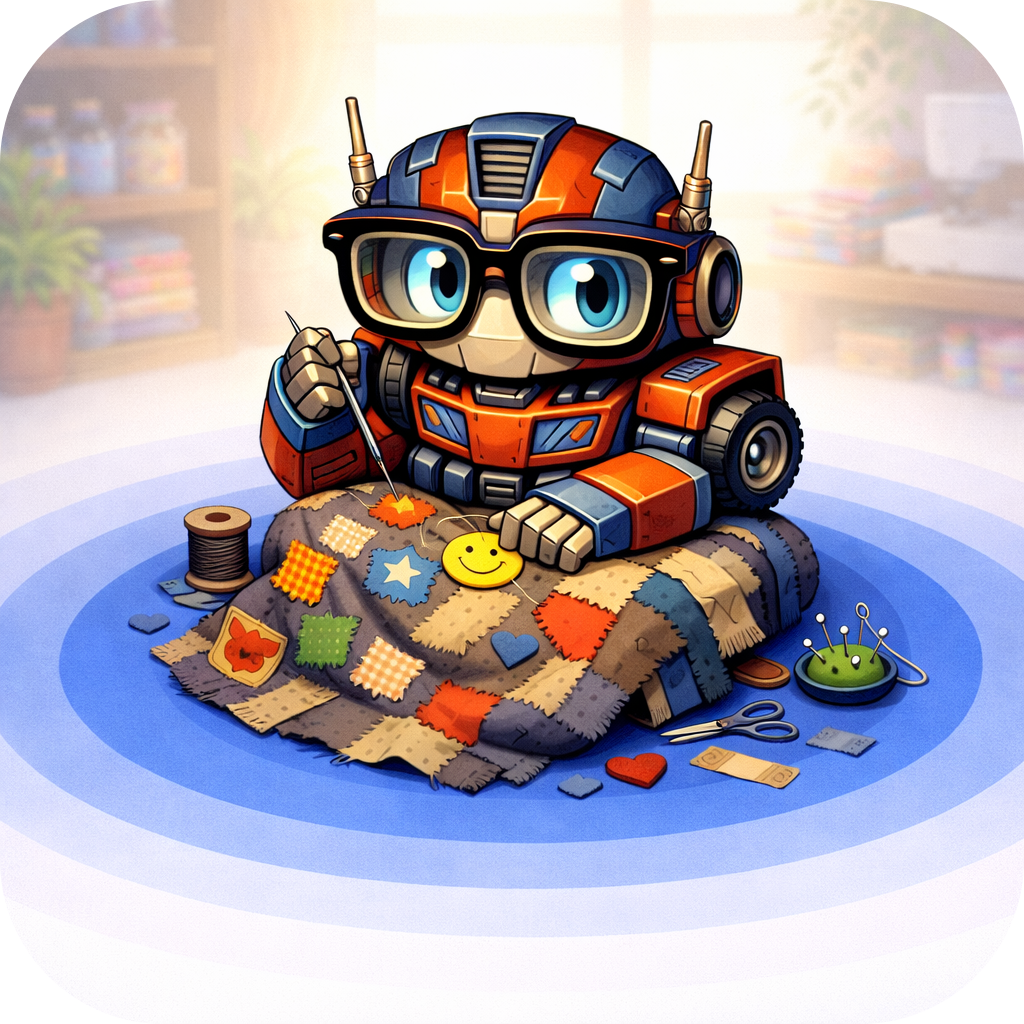
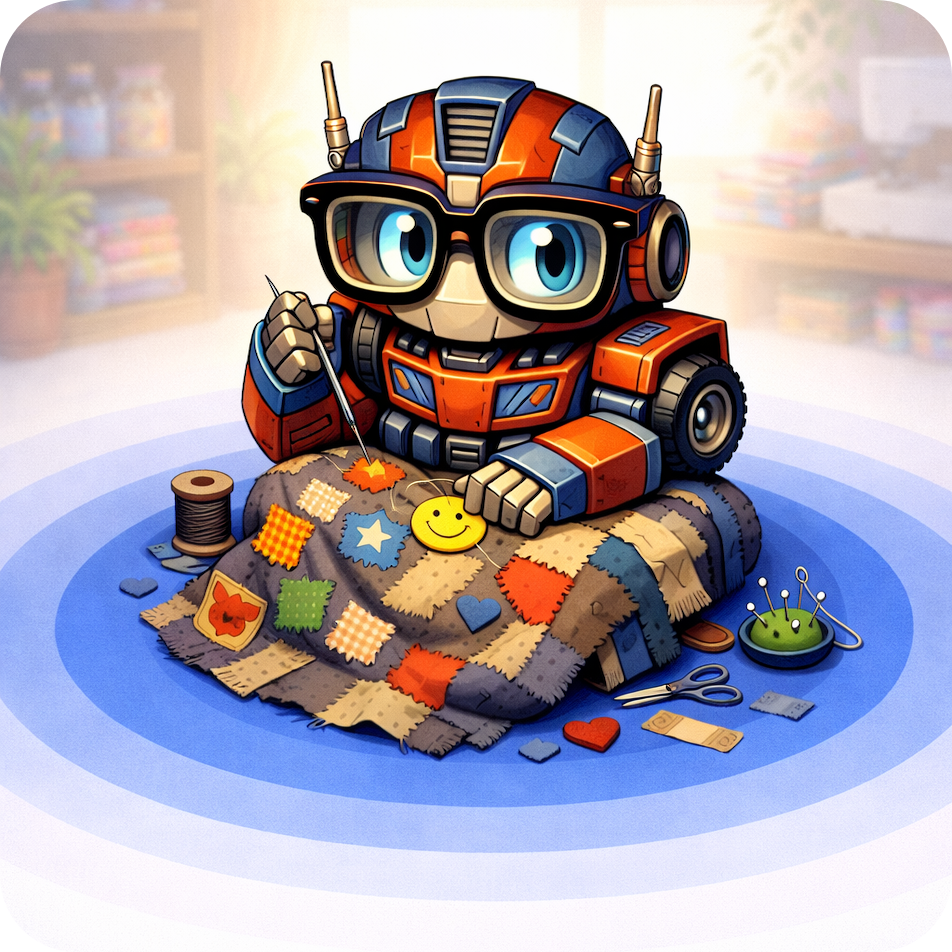
Update illustration

diff --git a/README.md b/README.md
@@ -1,7 +1,7 @@
 # LocAtViT: Locality-Attending Vision Transformer
 
 <div align="center">
-<img src="./.assets/locatvit-illustration.png" width="20%">
+<img src="./.assets/locatvit-illustration.png" width="25%">
 <p></p>
 </div>
 
